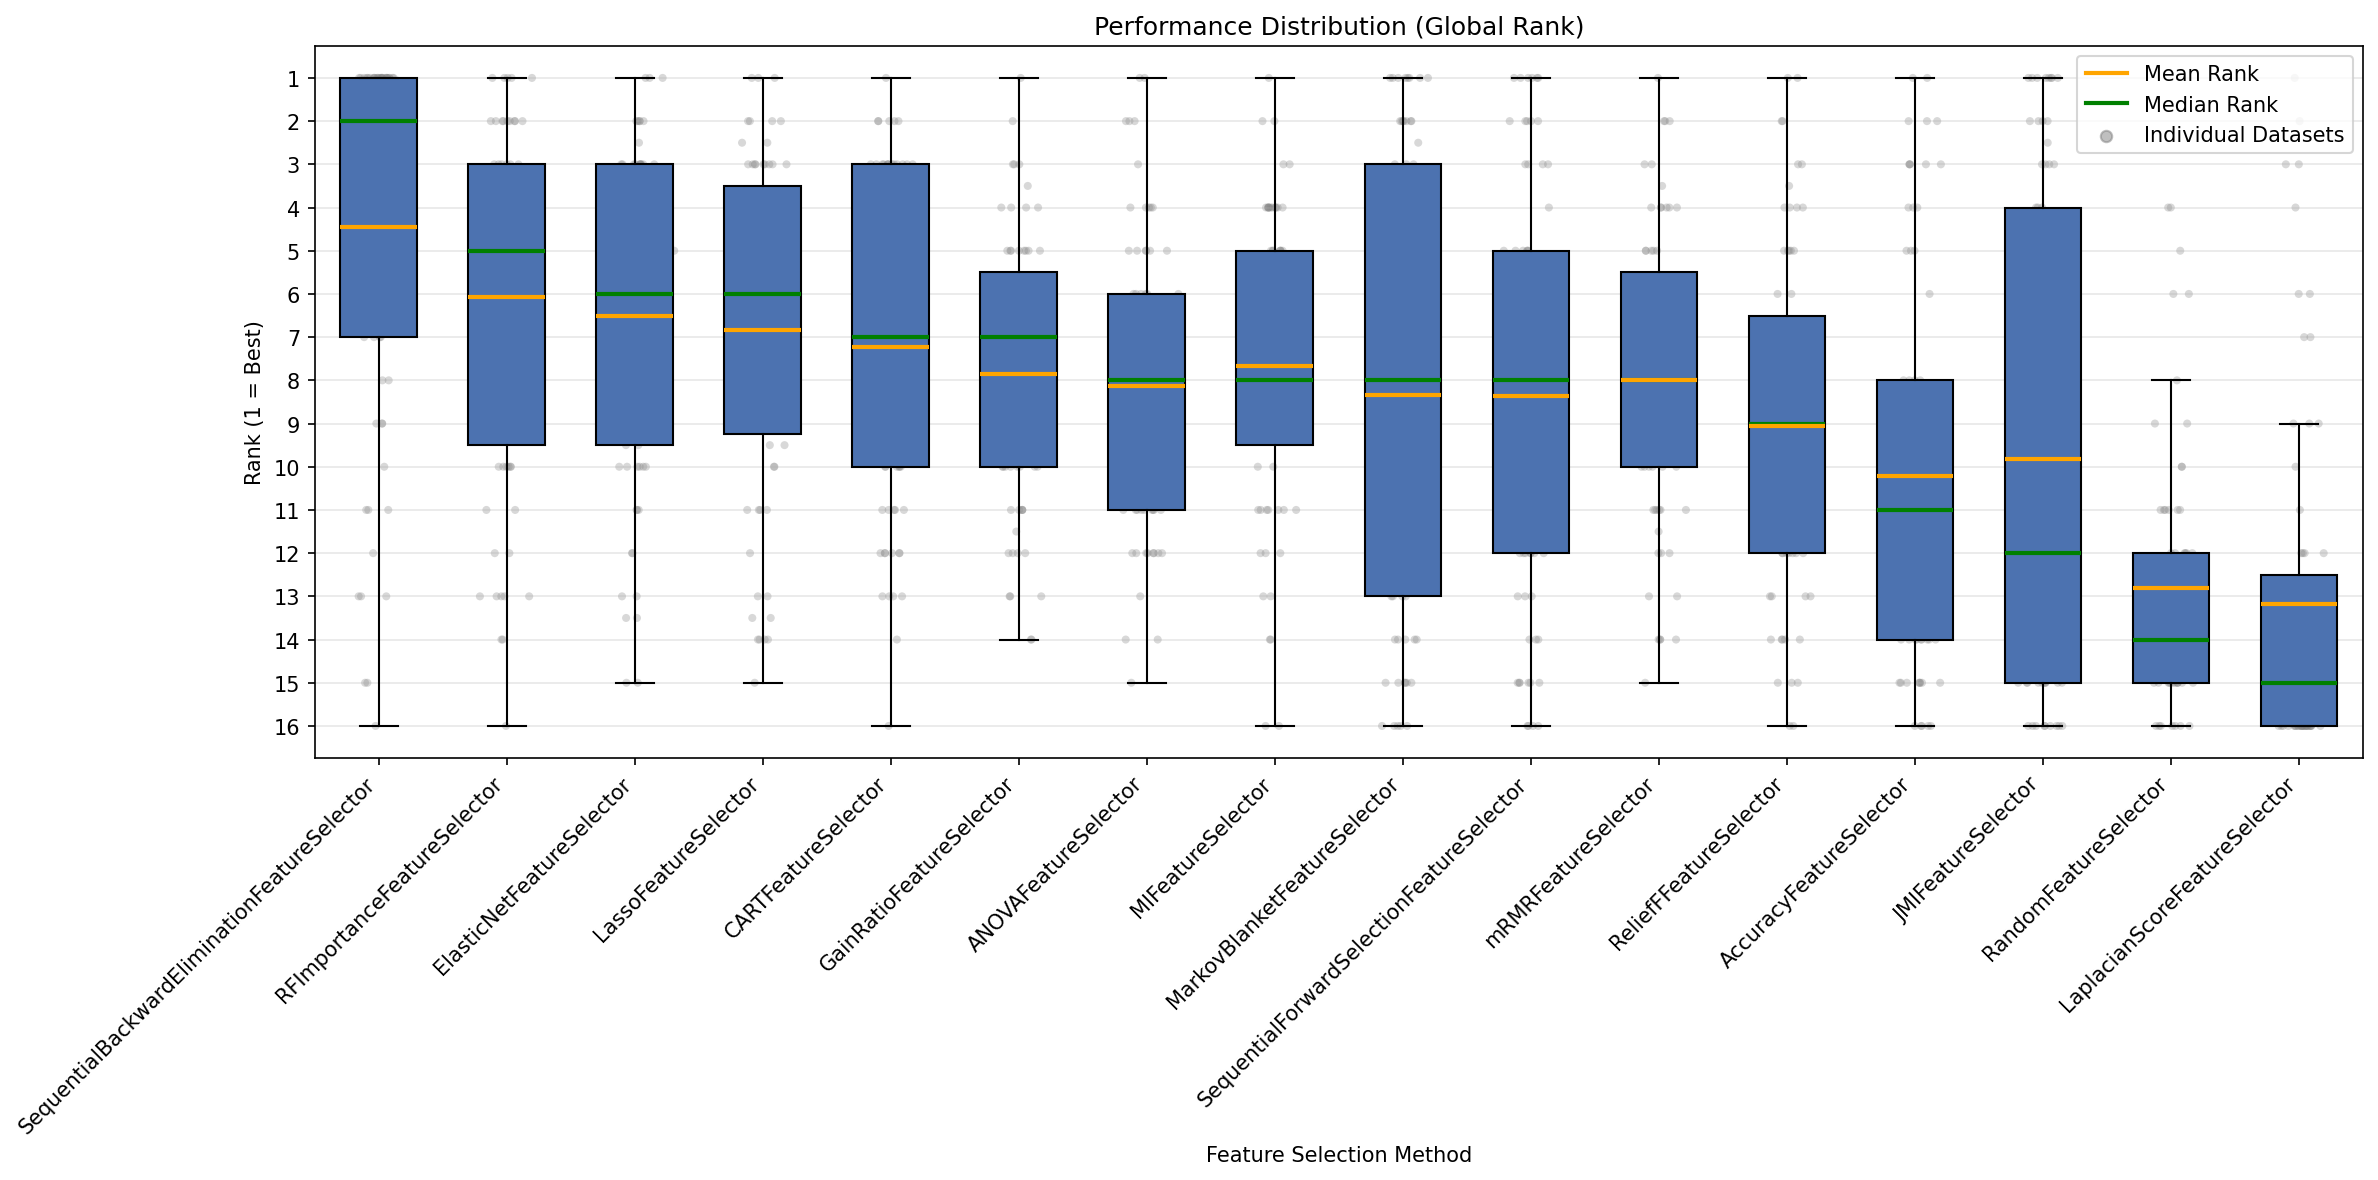
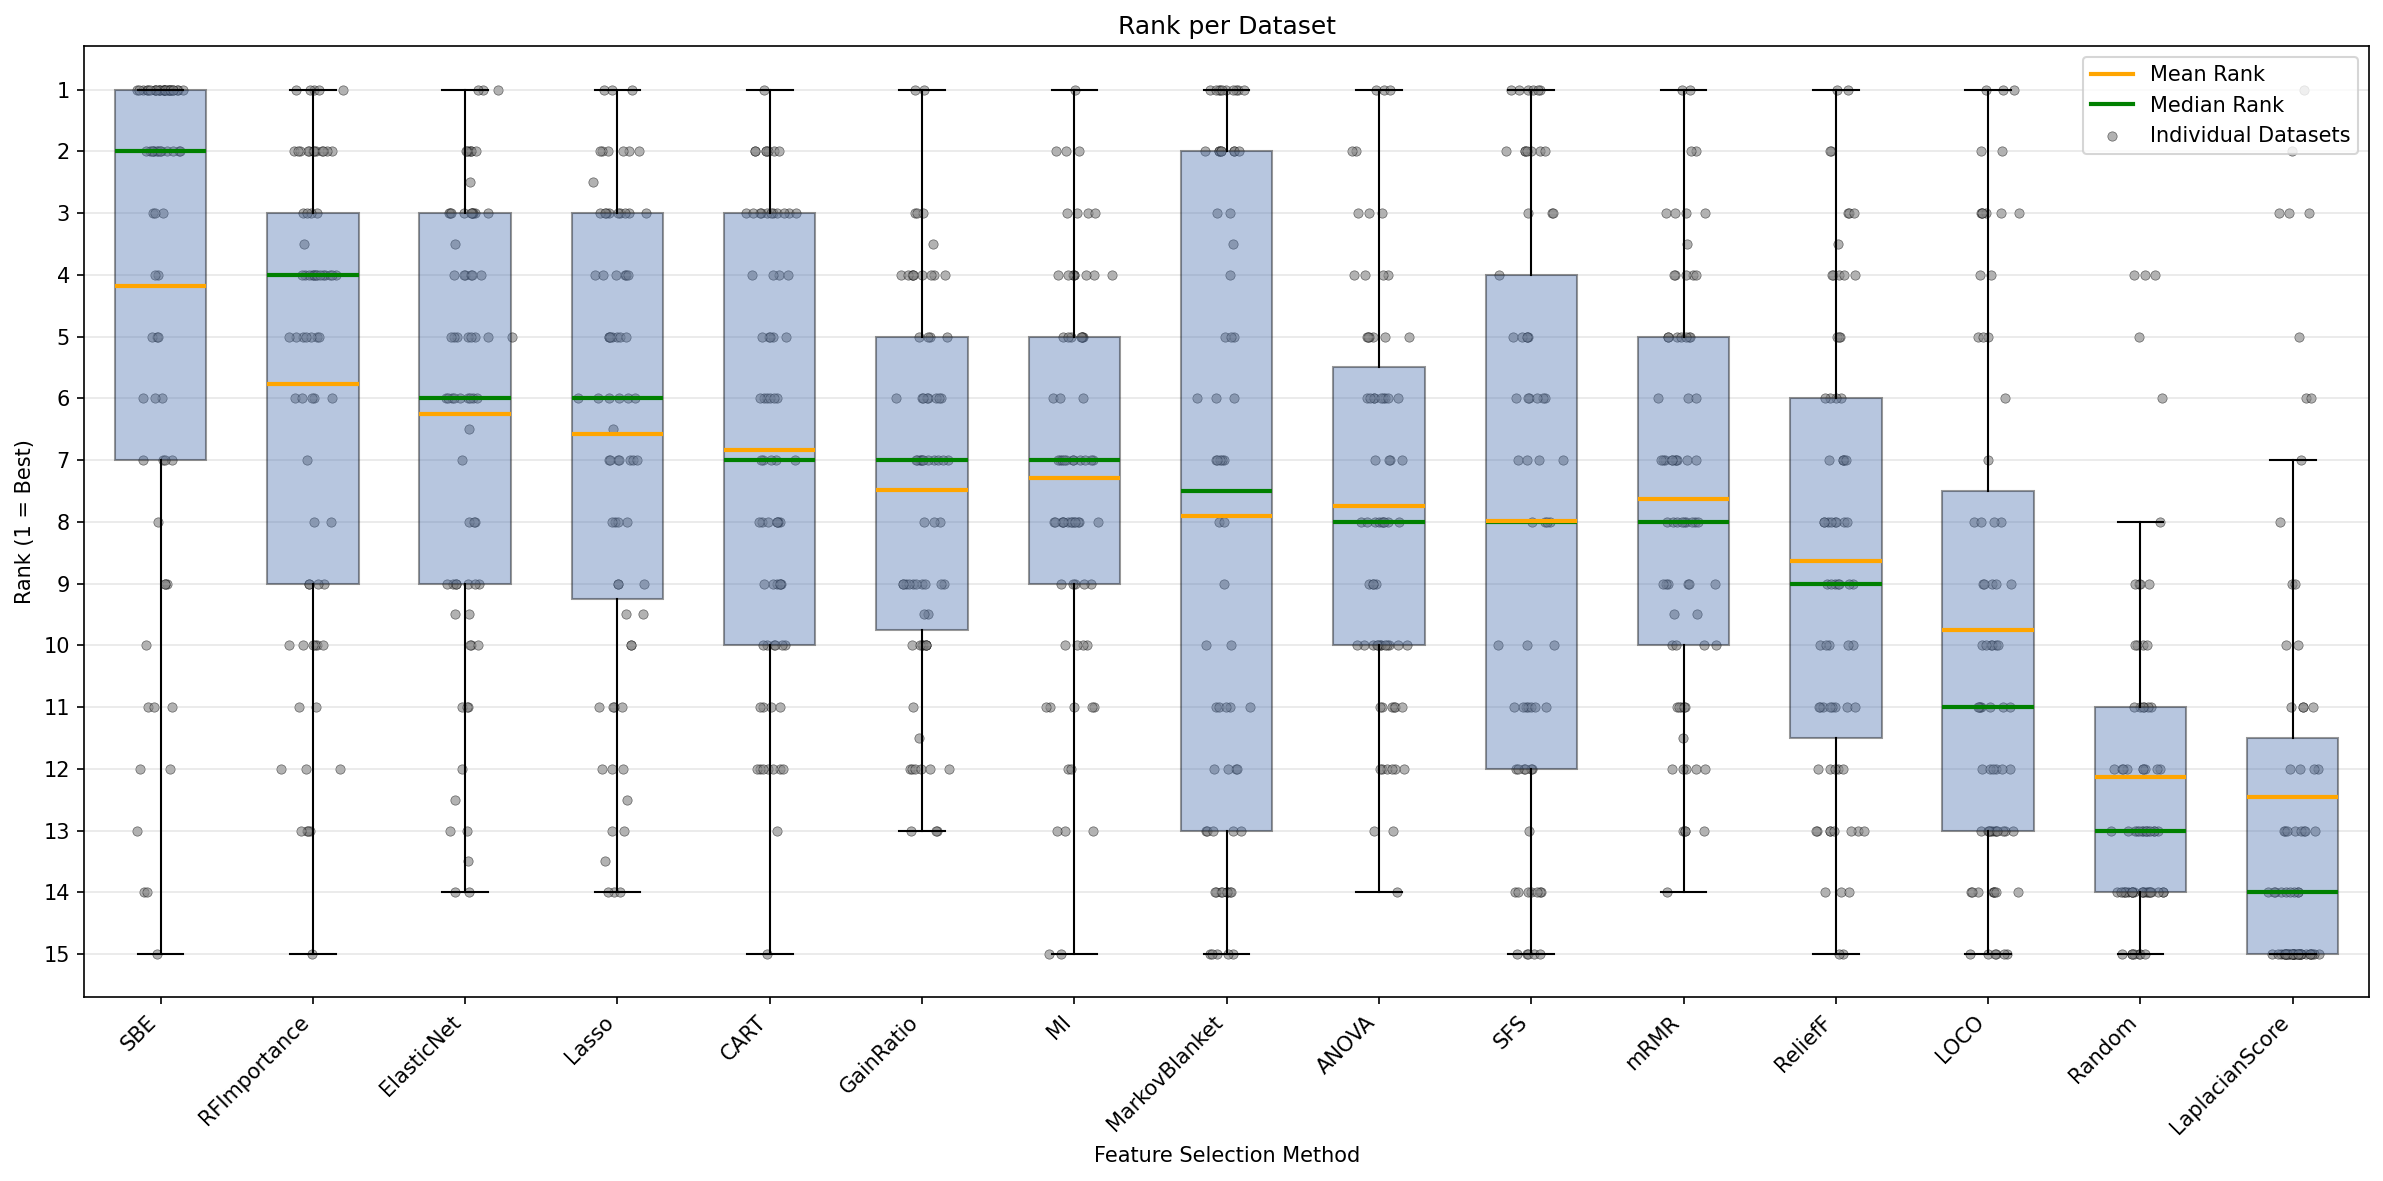
maint: prettify and make boxplots transparent for rank per dataset

diff --git a/plotting_code/performance/performance_rank_v1.py b/plotting_code/performance/performance_rank_v1.py
@@ -5,10 +5,14 @@ import pandas as pd
 from matplotlib import pyplot as plt
 from matplotlib.ticker import MultipleLocator
 
+from utils.average import average_per_dataset_and_method
+from utils.beautify import add_model_name, remove_jmi, beautify_names
+from utils.scaling import median_max_scale
+
 FILE_NAME = "results_per_split.csv"
 PLOT_NAME = "performance_rank_v1.png"
 
-PLOT_TITLE = "Performance Distribution (Global Rank)"
+PLOT_TITLE = "Rank per Dataset"
 X_LABEL = "Feature Selection Method"
 Y_LABEL = "Rank (1 = Best)"
 
@@ -16,23 +20,17 @@ Y_LABEL = "Rank (1 = Best)"
 def calculate_raw_ranks(df):
     df = df.copy()
 
-    def extract_model_cls(model_details):
-        details_dict = ast.literal_eval(str(model_details))
-        return details_dict.get('model_cls', "Unknown")
+    df = beautify_names(df)
+    df = remove_jmi(df)
+    df = add_model_name(df)
 
-    df["model_cls"] = df["model_details"].apply(extract_model_cls)
-
-    # 3. AVERAGE PHASE
-    # Group ONLY by Dataset, Metric, and Method.
-    # Pandas averages over all splits, models, and budgets automatically.
-    df_collapsed = df.groupby(
-        ["tid", "metric", "feature_selection_method"]
-    )["metric_error"].mean().reset_index()
+    df = median_max_scale(df)
+    df = average_per_dataset_and_method(df)
 
     # 4. RANKING PHASE
     # Group ONLY by Dataset and Metric.
     # Ranks the methods against each other for that specific dataset.
-    df_collapsed["rank"] = df_collapsed.groupby(
+    df["rank"] = df.groupby(
         ["tid"]
     )["metric_error"].rank(
         method="average",
@@ -40,7 +38,7 @@ def calculate_raw_ranks(df):
         na_option="keep"
     )
 
-    return df_collapsed
+    return df
 
 
 def plot_boxplot(df):
@@ -48,8 +46,6 @@ def plot_boxplot(df):
 
     # Sort the boxes from best (left) to worst (right) by MEDIAN rank
     median_ranks = ranked_df.groupby("feature_selection_method")["rank"].median().reset_index()
-
-    # Sort ascending so the smallest/best median rank is on the left of the x-axis
     median_ranks = median_ranks.sort_values("rank", ascending=True)
     sorted_methods = median_ranks["feature_selection_method"].tolist()
 
@@ -63,22 +59,17 @@ def plot_boxplot(df):
     # --- ADD BACKGROUND SCATTER POINTS ---
     np.random.seed(42)  # For reproducible jitter
     for i, method_data in enumerate(data_to_plot):
-        # Drop NaNs so scatter doesn't complain
         y = method_data[~np.isnan(method_data)]
-        # Add a little horizontal jitter so points don't completely overlap
         x = np.random.normal(i + 1, 0.08, size=len(y))
-
-        # Plot points. zorder=1 ensures they stay behind the boxes
-        ax.scatter(x, y, alpha=0.3, s=15, color='gray', zorder=1, edgecolors='none')
+        ax.scatter(x, y, alpha=0.6, s=20, color='gray', zorder=1, edgecolors='black', linewidth=0.3)
 
     # ---- CUSTOMIZE BOXPLOT PROPS ----
-    boxprops = dict(linewidth=1.5, color="black", facecolor="#4C72B0", alpha=0.8)
+    # FIXED: Added alpha=0.4 for transparency!
+    boxprops = dict(linewidth=1.5, color="black", facecolor="#4C72B0", alpha=0.4)
 
-    # We show BOTH the median (as the green line) and the mean (as the orange line)
     medianprops = dict(linewidth=2, visible=True, color="green")
     meanprops = dict(linestyle='-', linewidth=2, color='orange')
 
-    # Create the boxplot
     bp = ax.boxplot(
         data_to_plot,
         patch_artist=True,
@@ -86,14 +77,15 @@ def plot_boxplot(df):
         meanline=True,
         meanprops=meanprops,
         medianprops=medianprops,
-        showfliers=False,  # <-- Turned off fliers since we draw ALL points via scatter
-        zorder=2,  # <-- Forces the boxes to draw on top of the scatter
-        widths=0.6
+        showfliers=False,
+        zorder=2,
+        widths=0.6,
     )
 
     # Set colors for the boxes
     for patch in bp['boxes']:
         patch.set_facecolor('#4C72B0')
+        patch.set_alpha(0.4)  # <-- Double-check that transparency is applied
 
     # Formatting
     ax.set_xticks(np.arange(1, len(sorted_methods) + 1))
@@ -103,14 +95,13 @@ def plot_boxplot(df):
     ax.set_ylabel(Y_LABEL)
 
     ax.yaxis.set_major_locator(MultipleLocator(1))
-    ax.invert_yaxis()  # Puts Rank 1 at the top of the Y-axis
+    ax.invert_yaxis()
     ax.grid(True, alpha=0.3, axis="y")
 
-    # Add a custom legend to explicitly state the lines
+    # Legend
     ax.plot([], [], color='orange', linestyle='-', linewidth=2, label='Mean Rank')
     ax.plot([], [], color='green', linestyle='-', linewidth=2, label='Median Rank')
-    # Add scatter proxy to legend
-    ax.scatter([], [], color='gray', alpha=0.5, s=30, label='Individual Datasets')
+    ax.scatter([], [], color='gray', alpha=0.6, s=20, edgecolors='black', linewidth=0.3, label='Individual Datasets')
     ax.legend(loc="upper right")
 
     plt.tight_layout()
